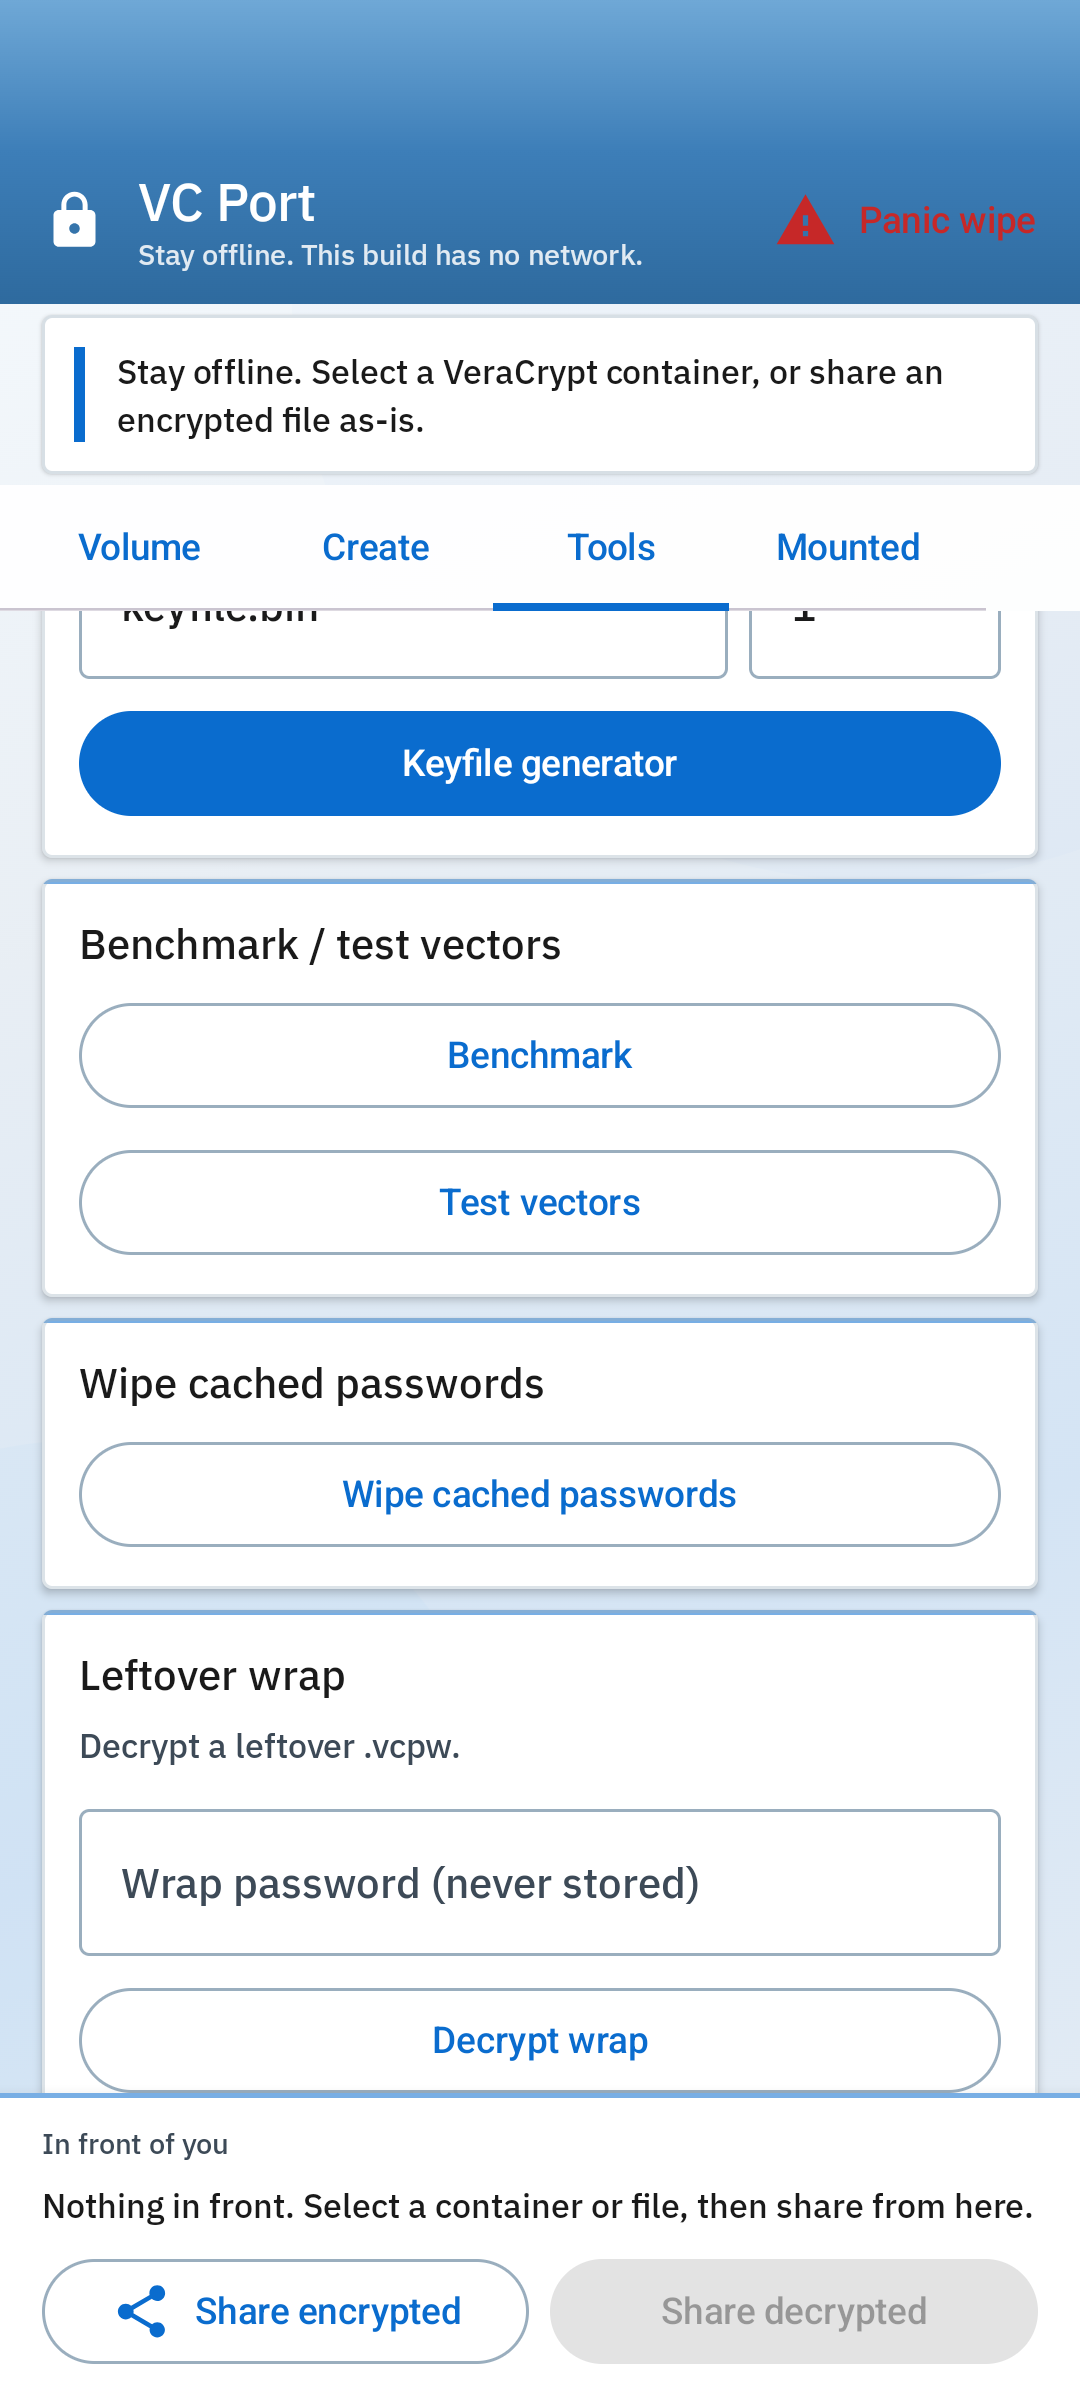
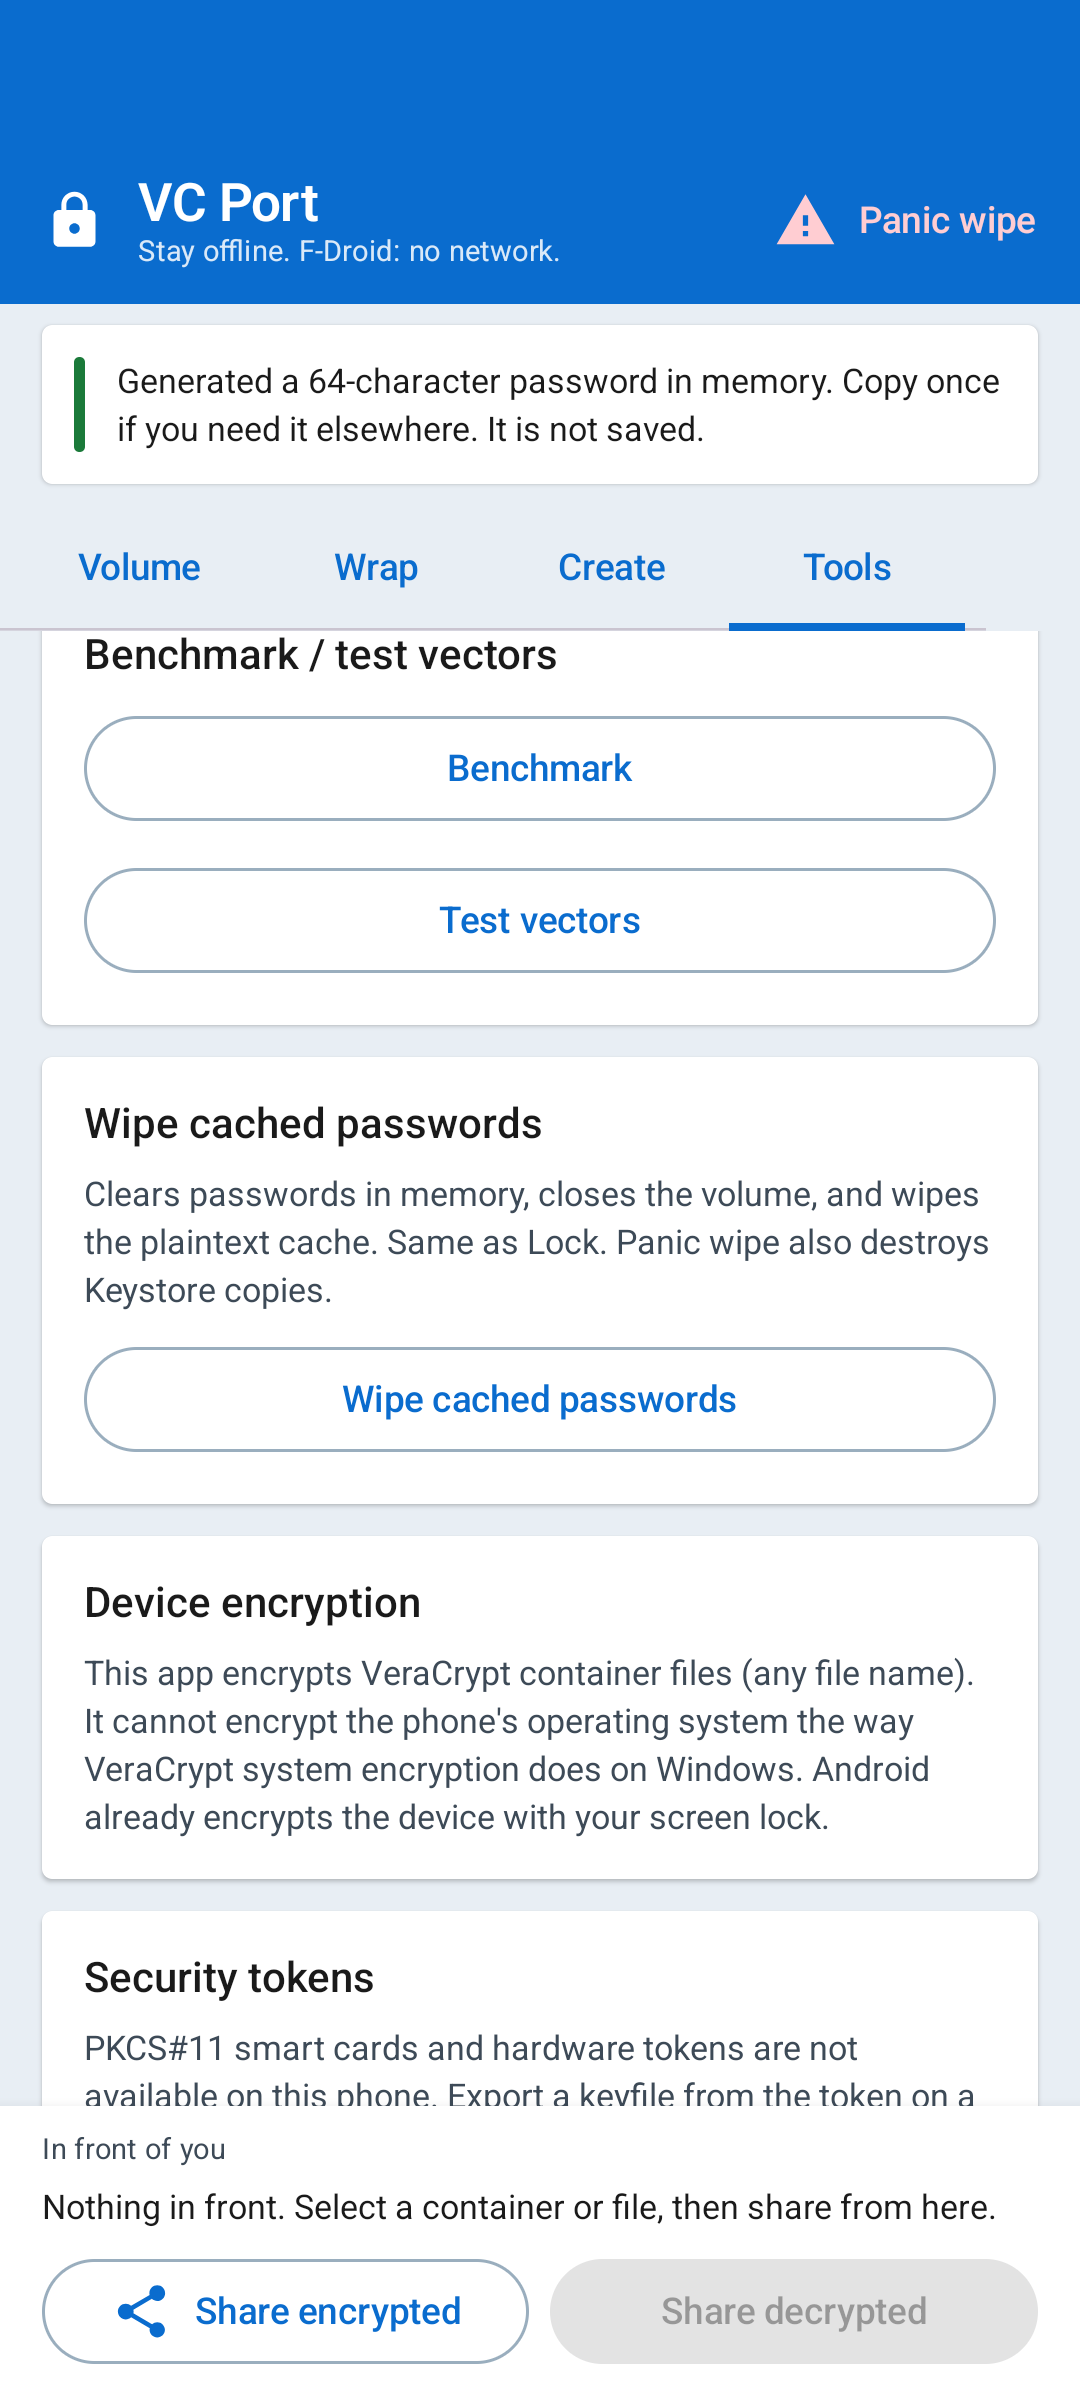
Publish current Android and iPhone tab shots for the 0.3.7 README.

Changed region(s): [[0.0, 0.0, 1.0, 0.9375], [0.9472, 0.4062, 0.9778, 0.4375]]

diff --git a/ports/android/app/src/androidTest/java/dev/shivampingale/vcport/SlowHumanSessionTest.kt b/ports/android/app/src/androidTest/java/dev/shivampingale/vcport/SlowHumanSessionTest.kt
@@ -66,10 +66,8 @@ class SlowHumanSessionTest {
         slow()
 
         val ctx = InstrumentationRegistry.getInstrumentation().targetContext
-        val clip = ctx.getSystemService(android.content.ClipboardManager::class.java)
-        val secret = clip.primaryClip?.getItemAt(0)?.coerceToText(ctx)?.toString()
-        assertNotNull("Copy once must put the generated password on the clipboard", secret)
-        assertEquals(64, secret!!.length)
+        val secret = rule.activity.testingCreatePassword()
+        assertEquals("Generate must leave a 64-character password in the Create field", 64, secret.length)
 
         Thread.sleep(1_400)
         val notes = File(ctx.filesDir, "slow-human-notes.txt")
@@ -99,8 +97,7 @@ class SlowHumanSessionTest {
         rule.onNodeWithText("Generate strong password").performScrollTo().assertIsDisplayed()
         rule.onNodeWithTag("copy_once").performScrollTo().performClick()
         rule.waitForIdle()
-        val again = clip.primaryClip?.getItemAt(0)?.coerceToText(ctx)?.toString()
-        assertEquals("Create password must survive Home so the wizard can continue", secret, again)
+        assertEquals("Create password must survive Home so the wizard can continue", secret, rule.activity.testingCreatePassword())
         assertEquals(secret, notes.readText())
         slow()
 
@@ -220,10 +217,8 @@ class SlowHumanSessionTest {
         slow()
         rule.onNodeWithTag("copy_once").performScrollTo().performClick()
         rule.waitForIdle()
-        val clip = ctx.getSystemService(android.content.ClipboardManager::class.java)
-        val outer = clip.primaryClip?.getItemAt(0)?.coerceToText(ctx)?.toString()
-        assertNotNull("outer Copy once", outer)
-        assertEquals(64, outer!!.length)
+        val outer = rule.activity.testingCreatePassword()
+        assertEquals("outer Copy once", 64, outer.length)
 
         rule.onNodeWithText("Nested volume (VeraCrypt hidden volume)")
             .performScrollTo()
@@ -244,9 +239,8 @@ class SlowHumanSessionTest {
         slow()
         rule.onNodeWithTag("copy_nested_once").performScrollTo().performClick()
         rule.waitForIdle()
-        val nested = clip.primaryClip?.getItemAt(0)?.coerceToText(ctx)?.toString()
-        assertNotNull("nested Copy once", nested)
-        assertEquals(64, nested!!.length)
+        val nested = rule.activity.testingCreateHiddenPassword()
+        assertEquals("nested Copy once", 64, nested.length)
         assertTrue("outer and nested passwords must differ", outer != nested)
 
         val notes = File(ctx.filesDir, "slow-human-nested-notes.txt")
@@ -263,13 +257,11 @@ class SlowHumanSessionTest {
         rule.onNodeWithText("Generate nested password").performScrollTo().assertIsDisplayed()
         rule.onNodeWithTag("copy_once").performScrollTo().performClick()
         rule.waitForIdle()
-        val outerAgain = clip.primaryClip?.getItemAt(0)?.coerceToText(ctx)?.toString()
-        assertEquals("outer password must survive Home", outer, outerAgain)
+        assertEquals("outer password must survive Home", outer, rule.activity.testingCreatePassword())
         slow()
         rule.onNodeWithTag("copy_nested_once").performScrollTo().performClick()
         rule.waitForIdle()
-        val nestedAgain = clip.primaryClip?.getItemAt(0)?.coerceToText(ctx)?.toString()
-        assertEquals("nested password must survive Home", nested, nestedAgain)
+        assertEquals("nested password must survive Home", nested, rule.activity.testingCreateHiddenPassword())
         assertEquals(outer + "\n" + nested, notes.readText())
         rule.onNodeWithText("Volume will be at least 11 MiB", substring = true)
             .performScrollTo()
@@ -316,10 +308,10 @@ class SlowHumanSessionTest {
         rule.onNodeWithText("Volume will be at least", substring = true).performScrollTo().assertIsDisplayed()
         rule.onNodeWithTag("copy_once").performScrollTo().performClick()
         rule.waitForIdle()
-        assertEquals(outer, clip.primaryClip?.getItemAt(0)?.coerceToText(ctx)?.toString())
+        assertEquals(outer, rule.activity.testingCreatePassword())
         rule.onNodeWithTag("copy_nested_once").performScrollTo().performClick()
         rule.waitForIdle()
-        assertEquals(nested, clip.primaryClip?.getItemAt(0)?.coerceToText(ctx)?.toString())
+        assertEquals(nested, rule.activity.testingCreateHiddenPassword())
         rule.onNodeWithText("Create volume").performScrollTo().assertIsEnabled()
         assertEquals(outer + "\n" + nested, notes.readText())
         Hardening.wipeDir(dir)

diff --git a/ports/android/app/src/androidTest/java/dev/shivampingale/vcport/AppInterfaceSessionTest.kt b/ports/android/app/src/androidTest/java/dev/shivampingale/vcport/AppInterfaceSessionTest.kt
@@ -96,12 +96,7 @@ class AppInterfaceSessionTest {
 
         rule.onAllNodesWithText("Generate strong password").onFirst().performScrollTo().performClick()
         rule.waitForIdle()
-        rule.onNodeWithTag("copy_once").performScrollTo().performClick()
-        rule.waitForIdle()
-        val clip = ctx.getSystemService(android.content.ClipboardManager::class.java)
-        val basketPassword = clip.primaryClip?.getItemAt(0)?.coerceToText(ctx)?.toString()
-        assertNotNull(basketPassword)
-        assertEquals(64, basketPassword!!.length)
+        val basketPassword = passwordAfterCopyOnce(hidden = false)
         File(work, "basket-password.txt").writeText(basketPassword)
 
         rule.onNodeWithTag("create_generate_keyfile").performScrollTo().performClick()
@@ -128,11 +123,7 @@ class AppInterfaceSessionTest {
         scribbleUntilFull()
         rule.onAllNodesWithText("Generate strong password").onFirst().performScrollTo().performClick()
         rule.waitForIdle()
-        rule.onNodeWithTag("copy_once").performScrollTo().performClick()
-        rule.waitForIdle()
-        val outerPassword = clip.primaryClip?.getItemAt(0)?.coerceToText(ctx)?.toString()
-        assertNotNull(outerPassword)
-        assertEquals(64, outerPassword!!.length)
+        val outerPassword = passwordAfterCopyOnce(hidden = false)
         assertTrue(outerPassword != basketPassword)
 
         rule.onNodeWithTag("create_hidden").performScrollTo().performClick()
@@ -142,11 +133,7 @@ class AppInterfaceSessionTest {
         }
         rule.onNodeWithText("Generate nested password").performScrollTo().performClick()
         rule.waitForIdle()
-        rule.onNodeWithTag("copy_nested_once").performScrollTo().performClick()
-        rule.waitForIdle()
-        val nestedPassword = clip.primaryClip?.getItemAt(0)?.coerceToText(ctx)?.toString()
-        assertNotNull(nestedPassword)
-        assertEquals(64, nestedPassword!!.length)
+        val nestedPassword = passwordAfterCopyOnce(hidden = true)
         assertTrue(nestedPassword != outerPassword)
         File(work, "nested-passwords.txt").writeText("$outerPassword\n$nestedPassword")
 
@@ -566,6 +553,28 @@ class AppInterfaceSessionTest {
         rule.onNodeWithText("Check for updates").assertDoesNotExist()
         rule.onNodeWithText("Panic wipe").assertIsDisplayed()
         Hardening.wipeDir(work)
+    }
+
+    private fun passwordAfterCopyOnce(hidden: Boolean): String {
+        rule.waitUntil(12_000) {
+            val pw = if (hidden) {
+                rule.activity.testingCreateHiddenPassword()
+            } else {
+                rule.activity.testingCreatePassword()
+            }
+            pw.length == 64
+        }
+        val tag = if (hidden) "copy_nested_once" else "copy_once"
+        rule.onNodeWithTag(tag).performScrollTo().performClick()
+        rule.waitForIdle()
+        waitStatus("Copied", 8_000)
+        val pw = if (hidden) {
+            rule.activity.testingCreateHiddenPassword()
+        } else {
+            rule.activity.testingCreatePassword()
+        }
+        assertEquals("Generate must leave a 64-character password in the Create field", 64, pw.length)
+        return pw
     }
 
     private fun waitStatus(substring: String, timeoutMs: Long) {

diff --git a/ports/ios/VCPortTests/AppInterfaceSessionTests.swift b/ports/ios/VCPortTests/AppInterfaceSessionTests.swift
@@ -423,6 +423,65 @@ final class AppInterfaceSessionTests: XCTestCase {
         try? FileManager.default.removeItem(at: work)
     }
 
+    /// Empty tabs only: no password, no open folder listing. For GitHub README.
+    func testPublishTabScreenshots() {
+        continueAfterFailure = false
+        waitReady()
+        let t = VcPortTesting.shared
+        let dir = shotDir()
+
+        onMain { t.selectTab(0) }
+        pump(0.8)
+        saveShot(dir, "ios-01-volume.png")
+
+        onMain { t.selectTab(1) }
+        pump(0.8)
+        saveShot(dir, "ios-03-create.png")
+
+        onMain { t.selectTab(2) }
+        pump(0.8)
+        saveShot(dir, "ios-04-tools.png")
+
+        onMain { t.selectTab(3) }
+        pump(0.8)
+        saveShot(dir, "ios-05-mounted.png")
+    }
+
+    private func shotDir() -> URL {
+        let docs = FileManager.default.urls(for: .documentDirectory, in: .userDomainMask)[0]
+        let dir = docs.appendingPathComponent("github-shots", isDirectory: true)
+        try? FileManager.default.createDirectory(at: dir, withIntermediateDirectories: true)
+        return dir
+    }
+
+    private func saveShot(_ dir: URL, _ name: String) {
+        let image = onMainValue { () -> UIImage? in
+            let window = UIApplication.shared.connectedScenes
+                .compactMap { $0 as? UIWindowScene }
+                .flatMap(\.windows)
+                .first { $0.isKeyWindow }
+            guard let window else { return nil }
+            let format = UIGraphicsImageRendererFormat()
+            format.scale = window.screen.scale
+            format.opaque = true
+            let renderer = UIGraphicsImageRenderer(bounds: window.bounds, format: format)
+            return renderer.image { _ in
+                window.drawHierarchy(in: window.bounds, afterScreenUpdates: true)
+            }
+        }
+        XCTAssertNotNil(image, "no key window for \(name)")
+        guard let data = image?.pngData() else {
+            XCTFail("png \(name)")
+            return
+        }
+        XCTAssertGreaterThan(data.count, 20_000, "\(name) too small")
+        do {
+            try data.write(to: dir.appendingPathComponent(name))
+        } catch {
+            XCTFail("write \(name): \(error)")
+        }
+    }
+
     private func waitReady() {
         let deadline = Date().addingTimeInterval(20)
         while Date() < deadline {

diff --git a/ports/android/app/src/androidTest/java/dev/shivampingale/vcport/MainActivityUiTest.kt b/ports/android/app/src/androidTest/java/dev/shivampingale/vcport/MainActivityUiTest.kt
@@ -78,8 +78,8 @@ class MainActivityUiTest {
         rule.onNodeWithText(
             "Protect hidden volume against damage caused by writing to outer volume"
         ).performScrollTo().assertIsDisplayed()
-        rule.onNodeWithText("not unbreakable", substring = true).performScrollTo().assertIsDisplayed()
-        rule.onNodeWithText("compelled", substring = true).performScrollTo().assertIsDisplayed()
+        rule.onNodeWithText("unbreakable", substring = true, ignoreCase = true).performScrollTo().assertIsDisplayed()
+        rule.onNodeWithText("compelled", substring = true, ignoreCase = true).performScrollTo().assertIsDisplayed()
 
         rule.onNodeWithTag("tab_create").performClick()
         rule.onNodeWithText("Generate strong password").performScrollTo().assertIsEnabled()
@@ -140,10 +140,8 @@ class MainActivityUiTest {
         rule.waitForIdle()
 
         val ctx = InstrumentationRegistry.getInstrumentation().targetContext
-        val clip = ctx.getSystemService(android.content.ClipboardManager::class.java)
-        val secret = clip.primaryClip?.getItemAt(0)?.coerceToText(ctx)?.toString()
-        assertNotNull("Copy once must put the generated password on the clipboard", secret)
-        assertEquals(64, secret!!.length)
+        val secret = rule.activity.testingCreatePassword()
+        assertEquals("Generate must leave a 64-character password in the Create field", 64, secret.length)
         val notes = File(ctx.filesDir, "notes-paste.txt")
         notes.writeText(secret)
         assertEquals("simulated Notes paste", secret, notes.readText())
@@ -169,7 +167,7 @@ class MainActivityUiTest {
         ).assertDoesNotExist()
         rule.onNodeWithTag("copy_once").performScrollTo().performClick()
         rule.waitForIdle()
-        val again = clip.primaryClip?.getItemAt(0)?.coerceToText(ctx)?.toString()
+        val again = rule.activity.testingCreatePassword()
         assertEquals(
             "Create password must survive background so the wizard can continue",
             secret,

diff --git a/ports/android/app/src/main/java/dev/shivampingale/vcport/MainActivity.kt b/ports/android/app/src/main/java/dev/shivampingale/vcport/MainActivity.kt
@@ -206,6 +206,12 @@ class MainActivity : AppCompatActivity() {
 
     /** Instrumented tests add basket files without the system picker. */
     @androidx.annotation.VisibleForTesting
+    fun testingCreatePassword(): String = createPasswordState.value
+
+    @androidx.annotation.VisibleForTesting
+    fun testingCreateHiddenPassword(): String = createHiddenPasswordState.value
+
+    @androidx.annotation.VisibleForTesting
     fun testingAddBasketFiles(files: List<File>) {
         val uris = files.map { Uri.fromFile(it) }
         runOnUiThread {

diff --git a/ports/tests/test_contracts.py b/ports/tests/test_contracts.py
@@ -302,6 +302,8 @@ class NamingAndAttributionTests(unittest.TestCase):
         self.assertIn("docs/screenshots/01-volume.png", readme)
         self.assertIn("docs/screenshots/05-mounted.png", readme)
         self.assertIn("docs/screenshots/08-skin-signal.png", readme)
+        self.assertIn("docs/screenshots/ios-01-volume.png", readme)
+        self.assertIn("docs/screenshots/ios-05-mounted.png", readme)
         self.assertNotIn("docs/screenshots/05-skin-cyberpunk.png", readme)
         self.assertNotIn("wrap a file", readme.lower())
         self.assertIn("TrueCrypt License 3.0", readme)

diff --git a/ports/tests/test_phases.py b/ports/tests/test_phases.py
@@ -381,6 +381,10 @@ class Phase9LegalVersionTests(unittest.TestCase):
             "04-tools.png",
             "05-mounted.png",
             "08-skin-signal.png",
+            "ios-01-volume.png",
+            "ios-03-create.png",
+            "ios-04-tools.png",
+            "ios-05-mounted.png",
         ]
         for name in names:
             path = shots / name

diff --git a/ports/docs/screenshots/README.md b/ports/docs/screenshots/README.md
@@ -1,11 +1,13 @@
 # VC Port UI shots
 
-These PNGs are **real** production debug UI from emulator AVD `vcport-api35`, captured with Compose `captureToImage` while **FLAG_SECURE stays on**. `adb screencap` is black on purpose (seizure / recents).
+Android PNGs are **real** production debug UI from emulator AVD `vcport-api35`, captured with Compose `captureToImage` while **FLAG_SECURE stays on**. `adb screencap` is black on purpose (seizure / recents).
+
+iPhone PNGs are **real** Debug UI from iPad Simulator, captured from the running app window. Empty tabs only.
 
 They are not store mockups. Fastlane `phoneScreenshots/` stays empty until a physical phone capture exists.
 
 No volume password, generated secret, or opened-folder listing is in these frames. Not unbreakable.
 
-Original (`01`–`04`) plus Mounted (`05-mounted.png`) is the production FOSS UI. Dark mode is `08-skin-signal.png`. The pick is stored on this phone only. Cyberpunk / Matrix / MAGI shots live under `archive/looks/screenshots/` and are not built.
+Original (`01`–`04`) plus Mounted (`05-mounted.png`) is the production FOSS Android UI. Dark mode is `08-skin-signal.png`. Matching iPhone frames are `ios-01-volume.png`, `ios-03-create.png`, `ios-04-tools.png`, `ios-05-mounted.png`. The pick is stored on this phone only. Cyberpunk / Matrix / MAGI shots live under `archive/looks/screenshots/` and are not built.
 
 Contact: Shivam Mangesh Pingale — shivampingaledev@proton.me · shivampingaledev@gmail.com

diff --git a/README.md b/README.md
@@ -49,19 +49,23 @@ On **iPhone**, you **sign** the app yourself with **your Apple ID**. We do not s
 
 **Volume** — pick a locked file and type the password.
 
-![Volume](ports/docs/screenshots/01-volume.png)
+Android: ![Volume](ports/docs/screenshots/01-volume.png)
+iPhone: ![Volume iPhone](ports/docs/screenshots/ios-01-volume.png)
 
 **Create** — make a new locked file.
 
-![Create](ports/docs/screenshots/03-create.png)
+Android: ![Create](ports/docs/screenshots/03-create.png)
+iPhone: ![Create iPhone](ports/docs/screenshots/ios-03-create.png)
 
 **Mounted** — folders inside. Slots are this session only. Not a system drive.
 
-![Mounted](ports/docs/screenshots/05-mounted.png)
+Android: ![Mounted](ports/docs/screenshots/05-mounted.png)
+iPhone: ![Mounted iPhone](ports/docs/screenshots/ios-05-mounted.png)
 
 **Tools** — change the volume password, headers, appearance. No wrap UI on the phones.
 
-![Tools](ports/docs/screenshots/04-tools.png)
+Android: ![Tools](ports/docs/screenshots/04-tools.png)
+iPhone: ![Tools iPhone](ports/docs/screenshots/ios-04-tools.png)
 
 How to build the phones: [PORTING.md](PORTING.md). Official VeraCrypt `src/` is in this folder so volumes stay compatible. On a computer, use official VeraCrypt — this project does not ship a PC or Mac app.
 

diff --git a/ports/README.md b/ports/README.md
@@ -51,19 +51,23 @@ The full tree with original VeraCrypt `src/` lives in [Veracrypt_port](https://g
 
 **Volume** — pick a locked file and type the password.
 
-![Volume](docs/screenshots/01-volume.png)
+Android: ![Volume](docs/screenshots/01-volume.png)
+iPhone: ![Volume iPhone](docs/screenshots/ios-01-volume.png)
 
 **Create** — make a new locked file.
 
-![Create](docs/screenshots/03-create.png)
+Android: ![Create](docs/screenshots/03-create.png)
+iPhone: ![Create iPhone](docs/screenshots/ios-03-create.png)
 
 **Mounted** — folders inside. Slots are this session only. Not a system drive.
 
-![Mounted](docs/screenshots/05-mounted.png)
+Android: ![Mounted](docs/screenshots/05-mounted.png)
+iPhone: ![Mounted iPhone](docs/screenshots/ios-05-mounted.png)
 
 **Tools** — change the volume password, headers, appearance. No wrap UI on the phones.
 
-![Tools](docs/screenshots/04-tools.png)
+Android: ![Tools](docs/screenshots/04-tools.png)
+iPhone: ![Tools iPhone](docs/screenshots/ios-04-tools.png)
 
 ## Appearance (least important)
 
